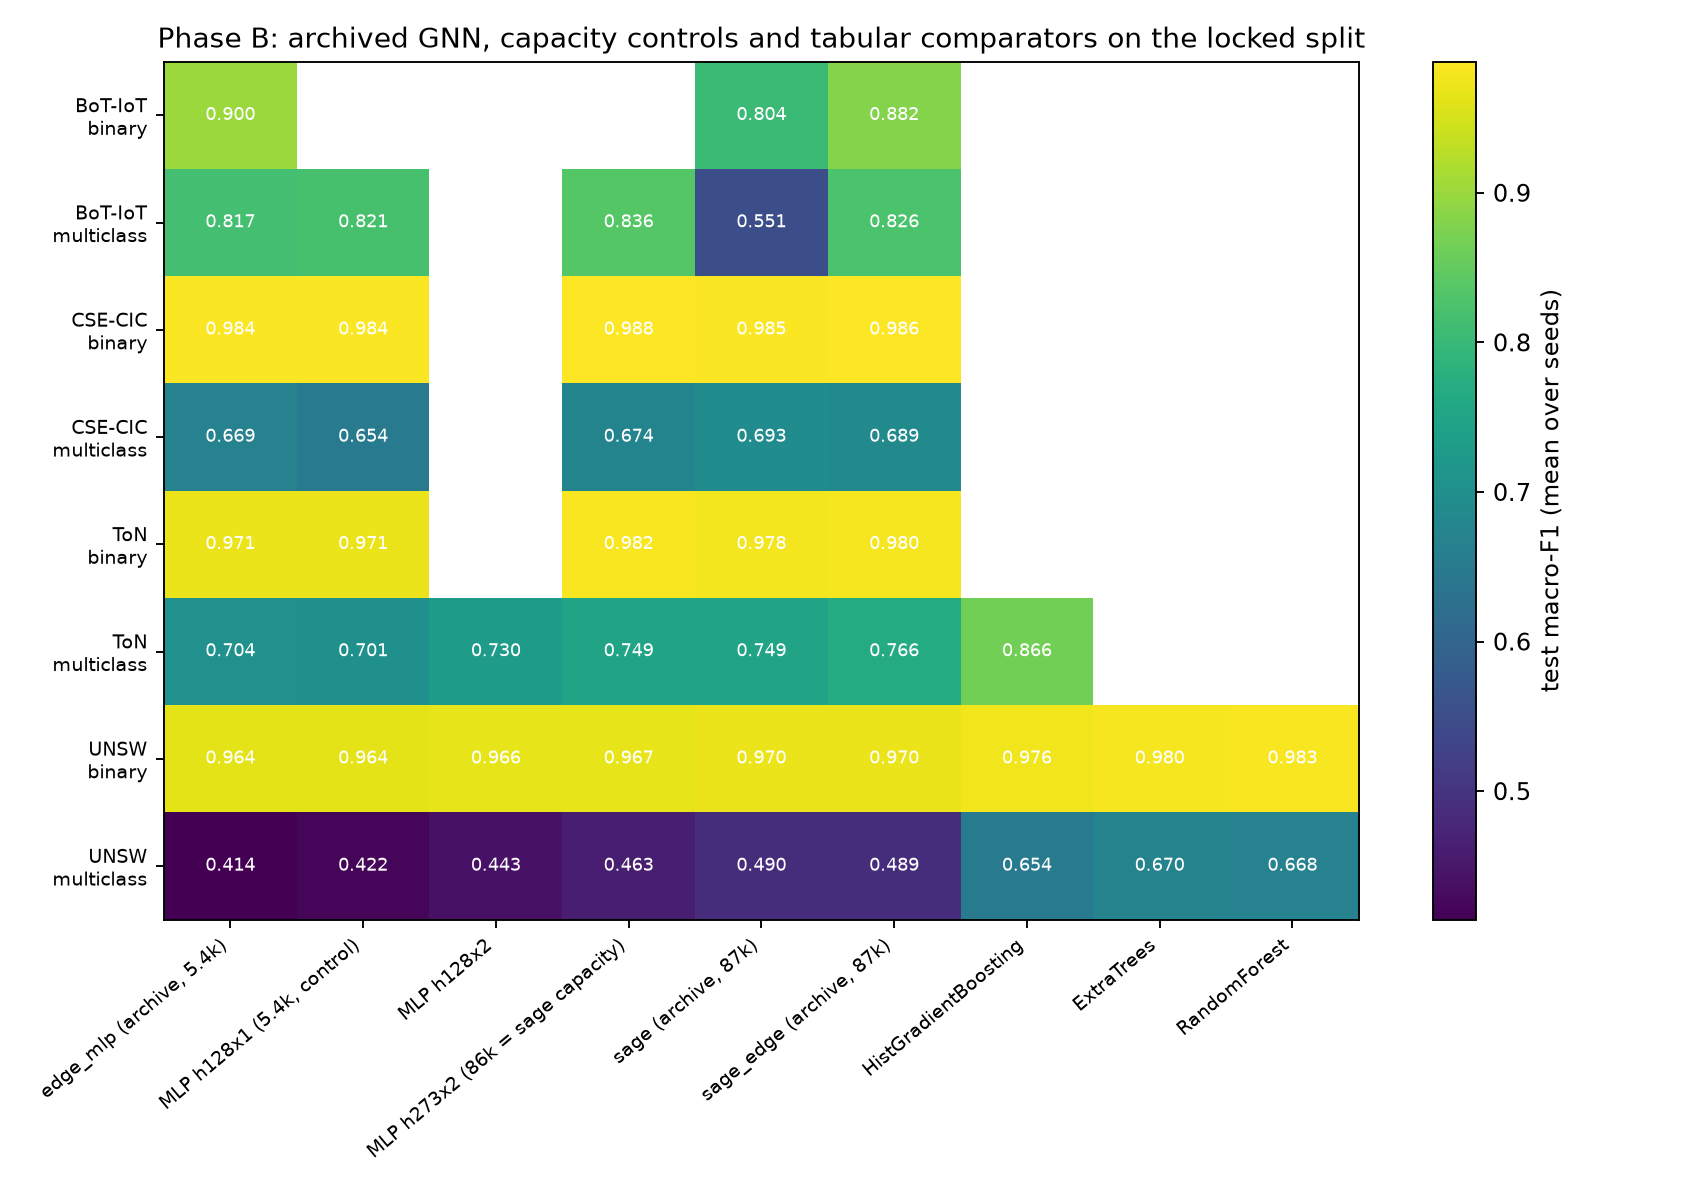
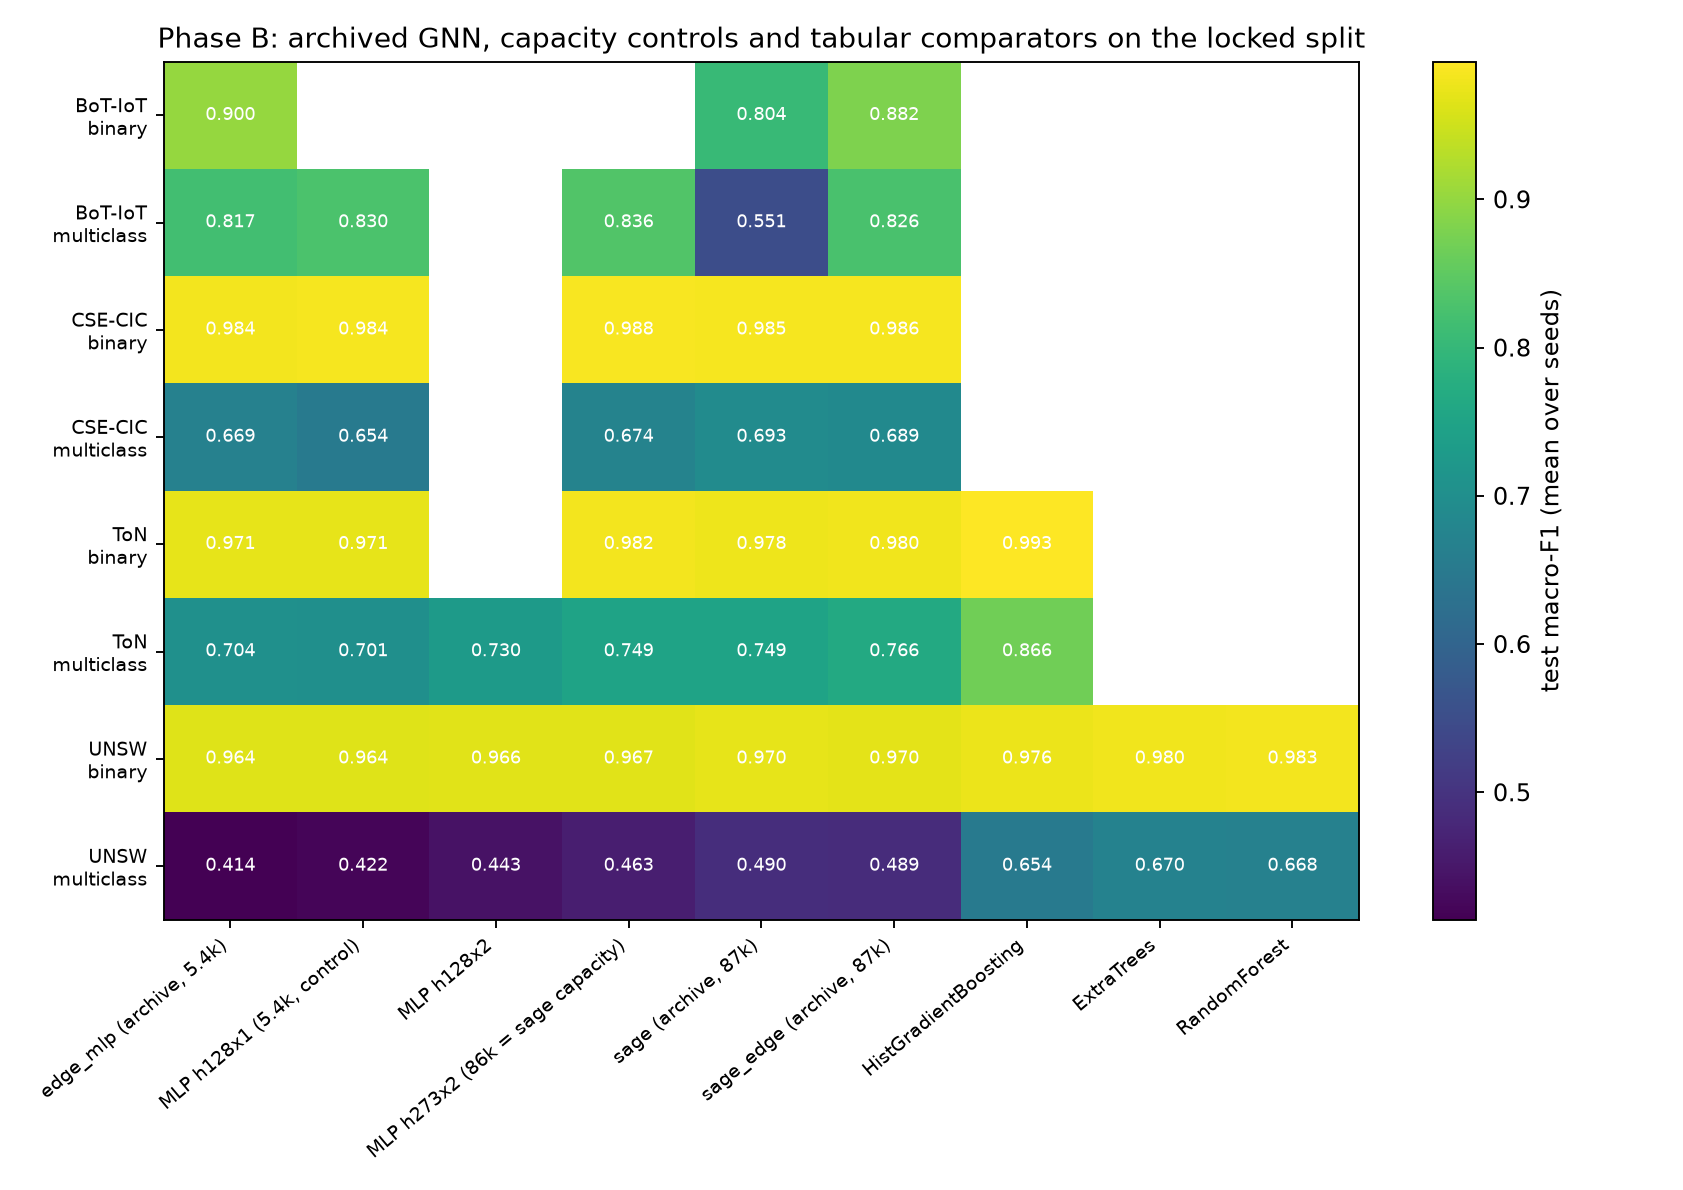
research(q4-2026): checkpoint and handover for the next run
Machine stopped at the user's request. All analysis code, result tables, figures and
reports are committed; the ~24 GB of derived data is not (it is fully regenerable and
the exact rebuild commands are documented).

Adds reports/05_TRANG_THAI_VA_CHAY_TIEP_VI.md containing:
- what is complete (audit, split reproduction, convergence/collapse diagnosis, 5-seed
  statistics, graph statistics, Gate B for UNSW and ToN-IoT, Gate C measured properly,
  TN-1 for 7 of 8 cells, TN-5, TN-6, TN-7, TN-8, TN-9, TN-10);
- what remains, in priority order, with the exact command for each;
- the rebuild-from-scratch recipe (LFS download URLs, split regeneration, feature
  materialisation) in case the machine changes;
- measured resource limits (HistGradientBoosting peaks at 10.3 GiB on ToN-IoT, ~11.5 on
  CSE-CIC and is infeasible on BoT-IoT at 13 GiB) and the pitfalls already hit, so they
  are not rediscovered: OOM under concurrency, CSV schema drift, the integer binary
  Label column, coarse 4-5 point learning curves, the UNSW budget mismatch and the LFS
  digest difference.

Gate B for ToN-IoT binary completed just before shutdown: HistGradientBoosting 0.9928
against 0.9802 for sage_edge.

diff --git a/research_q4_2026/reports/05_TRANG_THAI_VA_CHAY_TIEP_VI.md b/research_q4_2026/reports/05_TRANG_THAI_VA_CHAY_TIEP_VI.md
@@ -1,0 +1,146 @@
+# TRẠNG THÁI & HƯỚNG DẪN CHẠY TIẾP
+
+**Ngày dừng:** 2026-10-01 ~07:50 (giờ VN)  
+**Lý do dừng:** theo yêu cầu người dùng — máy không chạy tiếp được lúc này.  
+**Nhánh đã đẩy:** `research/2026q4-evidence-audit` trên `TranQuy-lab/reseach1`  
+**Thư mục làm việc cục bộ:** `/home/noble-tran/nghiencuu/egs-nfuq-2026Q4`
+
+> ⚠ **Điều quan trọng nhất cần biết:** kết quả phân tích và toàn bộ script **đã nằm trong Git**
+> (`research_q4_2026/`). Nhưng **dữ liệu và ma trận đặc trưng thì không** (~24 GB), vì quá lớn.
+> Chúng **tái tạo được hoàn toàn** bằng các lệnh ở §3. Nếu giữ được máy hiện tại thì không cần
+> tái tạo gì cả.
+
+---
+
+## 1. Đã hoàn thành
+
+| Hạng mục | Kết quả chính | Trạng thái |
+|---|---|---|
+| Kiểm toán 120 run lưu trữ | 120/120 verify, replay error 0, metric error 1,1e−16, `runs.csv` khớp `metrics.json` tới 5,7e−14 | ✅ |
+| Tái tạo split từ Parquet Git LFS | Khớp manifest lưu trữ **tuyệt đối** (số dòng + tỉ lệ chồng lấp IP tới 6 chữ số) | ✅ |
+| Chẩn đoán hội tụ từ 120 learning curve | 44 % run suy giảm sau đỉnh; underfitting **bị bác bỏ** | ✅ |
+| Sụp đổ tối ưu hóa + độ bền | `edge_mlp` 0/40, `sage` 10/40 (25 %), `sage_edge` 2/40; Fisher Holm p = 0,0031 | ✅ |
+| Thống kê 5 seed + meta-analysis | `sage − edge_mlp` = +0,0021 [−0,0105; +0,0146] — chứa 0; 0/24 sống sót Holm | ✅ |
+| 3 seed vs 5 seed | SD tăng tới 6,67×; 4/24 quyết định KTC bị đảo | ✅ |
+| Thống kê đồ thị | BoT 78,65 cạnh/node & 91,6 % lặp vs UNSW/CSE 1,7–1,8 & ~20 % | ✅ |
+| **Gate B** tabular (UNSW 2 task, ToN mc+bin) | UNSW mc: HGB 0,654 vs `sage_edge` 0,489; ToN mc: **0,8664** vs 0,7658; ToN bin: **0,9928** vs 0,9802 | 🟡 CSE chưa |
+| **Gate C** endpoint | **Đo sạch**: 0,018 % (ToN) và 2,0 % (UNSW) flow chưa thấy endpoint, hiệu ứng ≤ 0,044. **Bác bỏ** split endpoint-disjoint (HGB 0,866 → 0,472) | ✅ |
+| **Gate D** thống kê | Xong | ✅ |
+| TN-1 baseline cùng capacity | 7/8 ô; BoT mc 0,8364 **thắng mọi biến thể GNN** | 🟡 BoT binary |
+| TN-5 đặc trưng cấu trúc | `mlp_struct` 0,5003 > `sage` 0,4898 (UNSW mc) | ✅ |
+| TN-6 báo động giả | `sage` BoT 25,02 % (250.189 FP/triệu) vs `edge_mlp` 0,19 % | ✅ |
+| TN-7 chuyển giao xuyên mạng | nội bộ 5/5 vượt baseline hằng số; **xuyên mạng 4/15** | ✅ |
+| TN-8 trung bình đặc trưng lân cận | **Kết quả âm**: 0,4266 < flow-only 0,4628 | ✅ |
+| TN-9/TN-10 cô lập endpoint | Xong, đã sửa lại một claim sai của chính tôi | ✅ |
+
+## 2. Việc còn lại (theo thứ tự ưu tiên)
+
+| # | Việc | Lệnh | Ước tính |
+|---|---|---|---|
+| 1 | **TN-1 BoT-IoT binary** (ô cuối ma trận) | §4.1 | ~1,5–2 h |
+| 2 | **Gate B: CSE-CIC** (HGB cả 2 task) | §4.2 | ~1,5–2 h, **cần ~11,5 GiB RAM, phải chạy một mình** |
+| 3 | TN-5 phần còn lại (ToN; UNSW binary) | §4.3 | ~2 h |
+| 4 | TN-8 phần còn lại (ToN) | §4.4 | ~2 h |
+| 5 | TN-10 cho CSE/ToN binary (tùy chọn) | §4.5 | ~30 min |
+| 6 | ~~BoT-IoT tabular~~ | — | ❌ **Không khả thi ở 13 GiB** (HGB cần ~14 GiB) |
+| 7 | Convergence-first 8 lượt, rewiring RR/RW/WW/WR, GNN trên endpoint-holdout | — | ⛔ **Cần GPU ≥ 24 GiB VRAM** |
+
+## 3. Tái tạo dữ liệu cục bộ từ đầu (nếu đổi máy)
+
+```bash
+# 0) Môi trường (~2 phút)
+cd /home/noble-tran/nghiencuu && mkdir -p egs-nfuq-2026Q4 && cd egs-nfuq-2026Q4
+uv venv --python 3.12 .venv && . .venv/bin/activate
+uv pip install numpy pandas pyarrow duckdb scikit-learn scipy matplotlib
+uv pip install --index-url https://download.pytorch.org/whl/cpu torch
+
+# 1) Tải 4 Parquet (3,28 GB, ~10 phút; đây là Git LFS nhưng tải trực tiếp được)
+mkdir -p data/processed_four && cd data/processed_four
+for f in NF-UNSW-NB15-v2 NF-BoT-IoT-v2 NF-ToN-IoT-v2 NF-CSE-CIC-IDS2018-v2; do
+  curl -sSL --retry 5 -o $f.parquet \
+   "https://media.githubusercontent.com/media/TranQuy-lab/reseach1/main/$f.parquet"
+done
+cd ../..   # SHA-256 kỳ vọng ghi trong results/full_prepare_reproduction.json
+
+# 2) Tái tạo split đã khóa (~80 giây) — dùng chính module của repo, chỉ đọc
+PYTHONPATH=/home/noble-tran/nghiencuu/repo_reseach1/src python -m nids_minibatch.prepare \
+  --source data/processed_four --output data/full_splits \
+  --report results/full_prepare_reproduction.json \
+  --threads 12 --memory-limit 8GB --protocol PROTOCOL_FULL_DATA_VI.md
+# Kiểm tra: phải khớp prepare_manifest.json lưu trữ về số dòng và ip_overlap
+
+# 3) Ma trận đặc trưng (~10 phút, 12 GB)
+python scripts/07_materialise_features.py
+python scripts/07b_fix_binary_labels.py          # BẮT BUỘC: Label nhị phân là số nguyên
+
+# 4) Split endpoint-disjoint (nếu cần Gate C)
+python scripts/10_endpoint_disjoint_split.py --strategy holdout --threads 6
+```
+
+## 4. Lệnh chạy tiếp chính xác
+
+### 4.1 TN-1 BoT-IoT binary (ưu tiên 1)
+```bash
+cd /home/noble-tran/nghiencuu/egs-nfuq-2026Q4 && . .venv/bin/activate
+python scripts/08_tn1_capacity_matched_mlp.py \
+  --datasets NF-BoT-IoT-v2 --tasks binary \
+  --models mlp_h273_2l mlp_h128_1l --seeds 11 22 33
+```
+Script **tự bỏ qua run đã có** nên chạy lại an toàn.
+
+### 4.2 Gate B cho CSE-CIC (ưu tiên 2 — PHẢI chạy một mình)
+```bash
+# Dừng mọi job khác trước; HGB trên 13,2 M dòng cần ~11,5 GiB
+python scripts/09_tn2_tabular_comparators.py \
+  --datasets NF-CSE-CIC-IDS2018-v2 --tasks multiclass binary \
+  --models hist_gradient_boosting --seeds 11 22 33 --n-jobs 14
+```
+Nếu OOM: chấp nhận và ghi rõ **giới hạn tài nguyên** (quy tắc 7 của protocol), **không** subsample ngầm.
+
+### 4.3–4.5 Các phần còn lại
+```bash
+python scripts/18_tn5_structural_features.py --datasets NF-ToN-IoT-v2 --tasks multiclass binary \
+  --models mlp_struct mlp_struct_lab --seeds 11 22 33
+python scripts/21_tn8_neighbour_mean_smoothing.py --datasets NF-ToN-IoT-v2 --tasks multiclass binary \
+  --seeds 11 22 33 --threads 6
+python scripts/23_tn10_endpoint_isolation.py --datasets NF-BoT-IoT-v2 NF-CSE-CIC-IDS2018-v2 \
+  --tasks multiclass --seeds 11 22 33 --n-jobs 14
+```
+
+Sau **mỗi** lần chạy, làm mới báo cáo và hình:
+```bash
+for s in 11 12 14 17 19 13; do python scripts/$s*.py; done
+python scripts/06_figures.py
+```
+
+## 5. Ghi chú tài nguyên & lỗi đã gặp (để lần sau tránh)
+
+| Vấn đề | Chi tiết | Cách xử lý |
+|---|---|---|
+| **RAM là nút cổ chai** | Máy 13 GiB. HGB đo được: ToN-IoT **10,3 GiB**, CSE-CIC ~11,5 GiB, BoT-IoT ~14 GiB (không chạy được) | Chạy TN-2 **một mình**; dùng `scripts/run_tn2_when_free.sh` để chờ đủ RAM |
+| **OOM đã bị một lần** | TN-2 ToN bị kill khi chạy song song 4 job | Chỉ chạy TN-2 khi các job khác đã dừng |
+| **Schema drift** | Thêm cột `peak_rss_gib` giữa chừng làm CSV 16→17 cột, pandas không đọc được | Đã sửa; **nếu thêm cột, phải đổi tên file kết quả** |
+| **`Label` nhị phân là số nguyên** | Không phải tên lớp; phải dùng trực tiếp, thứ tự lớp `["Benign","Attack"]` | `scripts/07b_fix_binary_labels.py` bắt buộc chạy sau `07` |
+| **`history.json` chỉ 4–5 điểm** | Validation chỉ chạy sau mỗi lượt đầy đủ | Đủ để phân loại plateau/decay, không đủ để ước lượng learning curve mịn |
+| **BoT-IoT TN-1 rất chậm** | ~900–1500 s/run do 12.910 step | Chạy qua đêm; script có thể resume |
+| **UNSW ngân sách khác** | 3,667 lượt so với 2,0 ở ba bộ còn lại | **Luôn** nêu như threat to validity |
+| **Git LFS SHA khác manifest** | SHA file LFS ≠ `source.sha256` trong manifest | Đã chứng minh tương đương bằng tái tạo split; ghi rõ khi công bố |
+
+## 6. Bản đồ file
+
+| Đường dẫn | Nội dung |
+|---|---|
+| `reports/01_..._KIEM_TRA_DINH_VI_LAI_VI.md` | Kiểm tra, chẩn đoán, định vị lại, chọn hướng |
+| `reports/02_BAO_CAO_KET_QUA_VI.md` | **Báo cáo kết quả tổng hợp, sinh tự động từ `results/`** |
+| `reports/03_DINH_VI_LAI_VA_CLAIM_VI.md` | Sổ claim (N01–N23) + threat to validity |
+| `reports/04_MANUSCRIPT_DRAFT_EN.md` | Bản thảo tiếng Anh (DRAFT) |
+| `reports/05_TRANG_THAI_VA_CHAY_TIEP_VI.md` | **File này** |
+| `protocols/PROTOCOL_PHASE_B_VI.md` | Protocol khóa trước + sổ amendment |
+| `scripts/01..06` | Phase A: kiểm toán, hội tụ, thống kê, lớp hiếm, sụp đổ, hình |
+| `scripts/07..10` | Tái tạo dữ liệu, split, endpoint split |
+| `scripts/11..23` | Phase B: TN-1…TN-10 |
+| `results/*.csv,*.json` | 58 file kết quả — **nguồn duy nhất của mọi con số** |
+
+## 7. Trạng thái goal
+
+Goal **tạm dừng** theo yêu cầu người dùng. Khi tiếp tục, chạy lại đúng thứ tự §4 và bật lại goal.

diff --git a/research_q4_2026/README.md b/research_q4_2026/README.md
@@ -20,6 +20,19 @@ Kiểm toán độc lập 120 run lưu trữ phát hiện bốn điều làm tha
 4. **3 seed không đủ.** SD tăng tới 6,67× khi thêm seed 44/55; 4/24 quyết định
    dựa trên KTC bị đảo.
 
+5. **Phụ thuộc endpoint là hiện tượng của multiclass, không phải binary.** Cùng
+   kiến trúc, cùng ngân sách, cùng seed: NF-ToN-IoT-v2 multiclass mất **0,311**
+   macro-F1 trên split endpoint-disjoint, còn binary mất **0,001**. Tức endpoint
+   quen thuộc thay thế cho *phân biệt loại tấn công*, không phải cho tách
+   benign/attack.
+6. **Tóm tắt cấu trúc thô thắng message passing, nhưng nội dung aggregation thì
+   không tái tạo được.** `mlp_struct` (5 đặc trưng đếm) đạt 0,5003 > `sage` 0,4898;
+   trong khi cho model trung bình đặc trưng lân cận (78 chiều) chỉ đạt 0,4218 —
+   *thấp hơn* cả baseline flow-only 0,4628. Kết quả âm này phải được báo.
+7. **Biến thể sụp đổ không triển khai được.** `sage` trên BoT-IoT có tỉ lệ báo động
+   giả **25,02 %** (250.189 báo động giả/triệu flow benign, recall benign 0,75);
+   `edge_mlp` 0,19 % và `sage_edge` 0,32 %.
+
 Thêm một phát hiện phương pháp luận: UNSW-NB15 chạy **3,67 lượt** trong khi ba bộ
 còn lại đúng **2,0 lượt**, do `min_train_steps=1500` ghi đè ngân sách hai lượt;
 **30/30** checkpoint tốt nhất của UNSW ở lượt ≥ 3. So sánh xuyên bộ theo nhãn
@@ -33,6 +46,7 @@ còn lại đúng **2,0 lượt**, do `min_train_steps=1500` ghi đè ngân sác
 | `reports/02_BAO_CAO_KET_QUA_VI.md` | **Báo cáo kết quả tổng hợp, sinh tự động** từ `results/` |
 | `reports/03_DINH_VI_LAI_VA_CLAIM_VI.md` | Sổ đăng ký claim thay thế + threat to validity |
 | `reports/04_MANUSCRIPT_DRAFT_EN.md` | Bản thảo tiếng Anh theo định vị mới (DRAFT) |
+| `reports/05_TRANG_THAI_VA_CHAY_TIEP_VI.md` | **Trạng thái dừng máy + lệnh chạy tiếp + ghi chú tài nguyên** |
 | `protocols/` | Protocol khóa trước cho Phase B (baseline cùng capacity + comparator bảng) |
 | `scripts/` | Toàn bộ mã phân tích và thí nghiệm, tái chạy được |
 | `results/` | Bảng CSV/JSON sinh ra |
@@ -52,7 +66,18 @@ python scripts/12_endpoint_feasibility.py       # cổng khả thi endpoint (hì
 python scripts/13_build_report_02.py            # sinh báo cáo kết quả tổng hợp
 python scripts/14_collapse_robustness.py        # độ bền của kết luận sụp đổ (hình 8)
 python scripts/15_graph_statistics.py           # thống kê đồ thị theo dataset
+python scripts/16_holdout_cpu_evaluation.py     # huấn luyện trên split endpoint-holdout
+python scripts/17_holdout_comparison.py         # so sánh split khóa vs endpoint-holdout
+python scripts/18_tn5_structural_features.py    # TN-5: đặc trưng cấu trúc thay message passing
+python scripts/19_tn6_operational_metrics.py    # TN-6: tỉ lệ báo động giả từ confusion matrix
+python scripts/20_tn7_cross_dataset_transfer.py # TN-7: chuyển giao xuyên bộ dữ liệu (binary)
+python scripts/21_tn8_neighbour_mean_smoothing.py # TN-8: trung bình đặc trưng lân cận
 ```
+
+Ghi chú tài nguyên: `HistGradientBoosting` trên NF-ToN-IoT-v2 đỉnh **9,7 GiB RSS** (đo được),
+trên NF-CSE-CIC-IDS2018-v2 cao hơn, và NF-BoT-IoT-v2 (2,2×) **không chạy được** trên máy
+13 GiB. Vì vậy TN-2 cho các bộ lớn phải chạy **một mình**, và BoT-IoT được ghi là giới hạn
+tài nguyên thay vì lấy mẫu con ngầm. Xem `protocols/PROTOCOL_PHASE_B_VI.md` mục amendment.
 
 Các script Phase B (`07`…`11`) cần dữ liệu Parquet đã hydrate và split tái tạo;
 xem `protocols/PROTOCOL_PHASE_B_VI.md`.
@@ -77,8 +102,14 @@ split (đã chứng minh bằng tái tạo ở trên).
 | Thống kê 5 seed + meta-analysis | Xong |
 | Lớp hiếm + bất ổn định | Xong |
 | Tái tạo split, kiểm chứng provenance | Xong |
-| TN-1 baseline cùng capacity | Đang chạy (UNSW xong một phần; ToN/CSE/BoT đang chạy) |
-| TN-2 comparator bảng | Đang chạy (UNSW xong; ToN/CSE đang chạy) |
+| TN-1 baseline cùng capacity | Đang chạy (UNSW xong; ToN gần xong; CSE một phần; BoT chưa) |
+| TN-2 comparator bảng | UNSW xong; ToN/CSE đang chạy một mình vì giới hạn RAM; BoT không khả thi |
+| TN-5 đặc trưng cấu trúc thay message passing | **Xong phần quyết định**: `mlp_struct` 0,5003 > `sage` 0,4898 (UNSW mc, n=3) |
+| TN-6 hồ sơ báo động giả | **Xong**: `sage` BoT-IoT 25,02 % báo động giả |
+| TN-8 trung bình đặc trưng lân cận | **Kết quả âm**: 0,4218 < flow-only 0,4628 (n=2) |
+| TN-7 chuyển giao xuyên bộ dữ liệu | **Xong**: nội bộ 5/5 lần vượt baseline hằng số; **xuyên mạng chỉ 4/15** |
+| TN-9 HGB trên split endpoint-disjoint | **Xong**: 0,866 → 0,472 ⇒ split bị nhiễu, dùng để bác bỏ TN-4 |
+| TN-10 cô lập endpoint trên split khóa | **Xong**: 0,018 % (ToN) và 2,0 % (UNSW) flow chưa thấy endpoint; hiệu ứng ≤ 0,044 |
 | Endpoint-disjoint split (Gate C, phần CPU) | Xong — khả thi ở UNSW/ToN, không ở CSE-CIC/BoT-IoT |
 | Thống kê đồ thị giải thích cơ chế | Xong |
 | Độ bền kết luận sụp đổ + Fisher/Holm | Xong |

diff --git a/research_q4_2026/reports/04_MANUSCRIPT_DRAFT_EN.md b/research_q4_2026/reports/04_MANUSCRIPT_DRAFT_EN.md
@@ -261,8 +261,8 @@ flow-only baseline. Full matrix `[PENDING: CSE-CIC and BoT-IoT still running]`:
 | UNSW · binary | 0.964 | `[PENDING]` | 0.970 | 0.970 | 0.976 | `[PENDING]` | `[PENDING]` |
 | ToN · multiclass | 0.704 | **0.749** | **0.749** | 0.766 | **0.866** | `[PENDING]` | `[PENDING]` |
 | ToN · binary | 0.971 | `[PENDING]` | 0.977 | 0.980 | `[PENDING]` | `[PENDING]` | `[PENDING]` |
-| CSE-CIC · mc/bin | 0.669 / 0.984 | `[PENDING]` | 0.693 / 0.985 | 0.689 / 0.986 | `[PENDING]` | — | — |
-| BoT-IoT · mc/bin | 0.817 / 0.900 | `[PENDING]` | 0.551 / 0.804 | 0.826 / 0.882 | `[PENDING]` | — | — |
+| CSE-CIC · mc/bin | 0.669 / 0.984 | 0.674 / 0.988 | 0.693 / 0.985 | 0.689 / 0.986 | `[PENDING]` | — | — |
+| BoT-IoT · mc/bin | 0.817 / 0.900 | **0.836** / `[PENDING]` | 0.551 / 0.804 | 0.826 / 0.882 | `[PENDING]` | — | — |
 
 Established so far (paired by seed, 95% bootstrap CI):
 
@@ -272,11 +272,18 @@ Established so far (paired by seed, 95% bootstrap CI):
 |---|---:|---:|---:|---:|
 | capacity only, no topology (`mlp_h273_2l − edge_mlp`) | **+0.049** [+0.034, +0.060] | **+0.003** [+0.0025, +0.0034] | **+0.045** [+0.041, +0.050] | **+0.013** [+0.007, +0.020] |
 | **topology at matched capacity (`sage − mlp_h273_2l`)** | **+0.027** [+0.016, +0.041] | **+0.003** [+0.002, +0.004] | **−0.000** [−0.006, +0.005] | +0.025 [−0.001, +0.051] |
+| topology at matched capacity, NF-BoT-IoT-v2 mc | **−0.267** [−0.280, −0.259] | | | |
 | tabular mean vs. `edge_mlp` | **+0.240** | **+0.012** | **+0.162** | `[PENDING]` |
 | tabular mean vs. best graph variant | **+0.168** | **+0.006** | **+0.101** | `[PENDING]` |
 
-- **Capacity is a first-order confound.** Roughly half of the apparent graph advantage on
-  both completed cells is reproduced by adding parameters and depth with no message passing.
+- **Capacity is a first-order confound.** Adding parameters and depth with no message passing
+  reproduces a significant part of the apparent graph advantage in every completed cell
+  (+0.003 to +0.049 macro-F1, all 95% intervals excluding zero).
+- **On NF-BoT-IoT-v2 the flow-only model is simply better.** The capacity-matched MLP reaches
+  0.836 macro-F1, above `sage_edge` (0.826) and far above the topology-only `sage` (0.551),
+  which collapses on 4 of 5 multiclass seeds and 5 of 5 binary seeds. A model with the same
+  parameter count that never aggregates a neighbour trains stably and wins, so the collapse is
+  a property of the message-passing configuration, not of the data or the budget.
 - **What survives capacity matching depends on the dataset.** On UNSW multiclass a small
   structural increment survives (+0.027); on ToN multiclass the residual is indistinguishable
   from zero. We therefore report this as a dataset-dependent association, not a general
